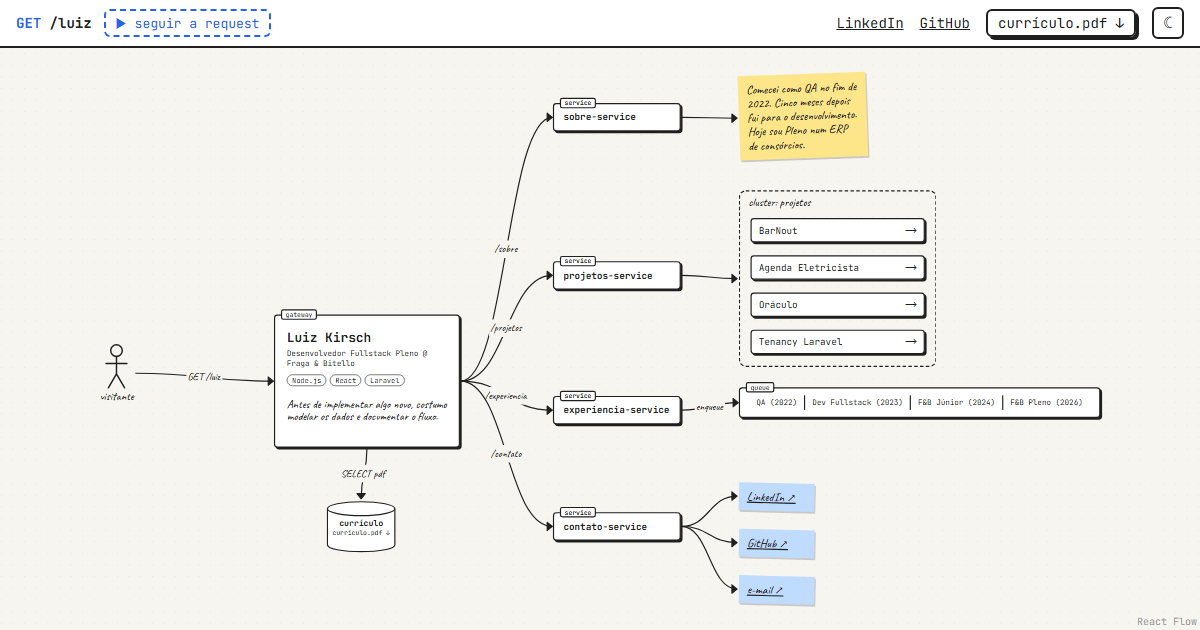
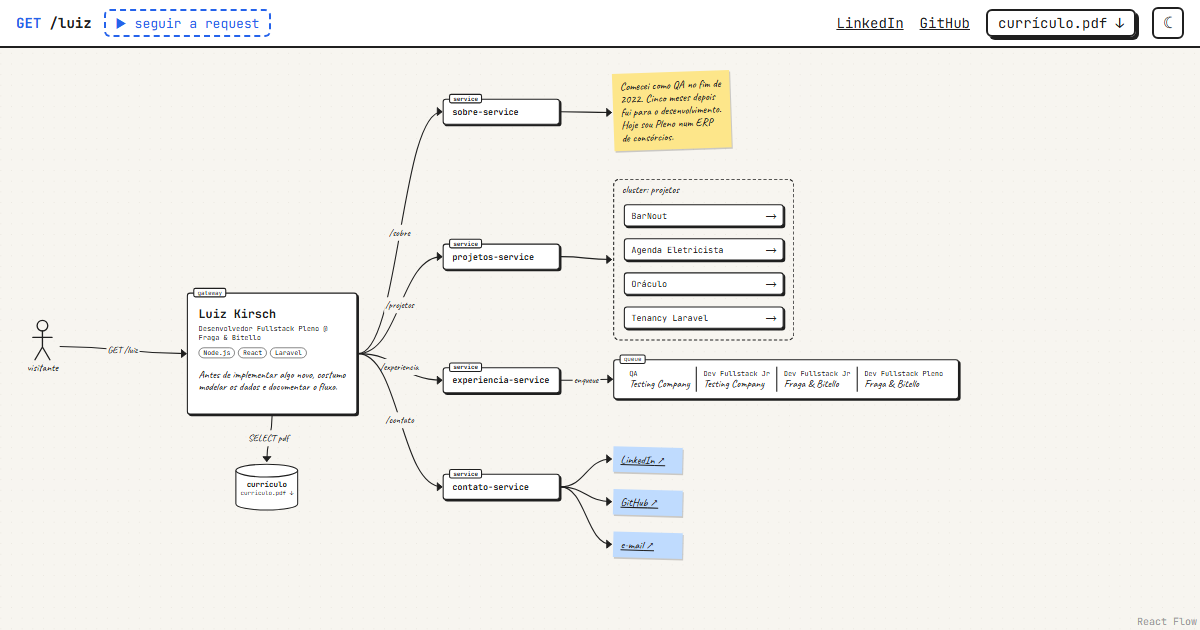
Ajustes: cargos da fila, tags da experiência e diagrama do Tenancy
- Fila: QA e Dev Fullstack Jr na Testing Company; Dev Fullstack Jr e
  Pleno na Fraga & Bitello. Cada slot mostra a empresa.
- Painel de experiência: o espaçamento entre cargos pegava também as
  tags de stack aninhadas e desalinhava a primeira.
- Tenancy Laravel: diagrama refeito a partir do README (domínio central,
  painel admin e banco central x domínio do tenant e banco do tenant).
- Mini diagramas escolhem o lado da seta pela grade: camadas diferentes
  sempre ligam por cima/baixo.
- "Ver tudo" reserva o canto do minimapa e o botão.

Changed region(s): [[0.0308, 0.3016, 0.925, 0.9651], [0.37, 0.0905, 0.74, 0.2714], [0.3083, 0.3619, 0.3392, 0.3921]]

diff --git a/src/content/content.ts b/src/content/content.ts
@@ -103,7 +103,7 @@ export const education: Education[] = [
 export const experiences: Experience[] = [
   {
     id: 'qa',
-    label: 'QA (2022)',
+    label: 'QA',
     title: 'Quality Assurance',
     org: 'Testing Company',
     place: 'Novo Hamburgo, RS',
@@ -118,8 +118,8 @@ export const experiences: Experience[] = [
   },
   {
     id: 'dev',
-    label: 'Dev Fullstack (2023)',
-    title: 'Desenvolvedor Fullstack',
+    label: 'Dev Fullstack Jr',
+    title: 'Desenvolvedor Fullstack Júnior',
     org: 'Testing Company',
     place: 'Novo Hamburgo, RS · híbrido',
     period: 'abr/2023 – nov/2024',
@@ -133,8 +133,8 @@ export const experiences: Experience[] = [
   },
   {
     id: 'fb-junior',
-    label: 'F&B Júnior (2024)',
-    title: 'Desenvolvedor de Software Júnior',
+    label: 'Dev Fullstack Jr',
+    title: 'Desenvolvedor Fullstack Júnior',
     org: 'Fraga & Bitello',
     place: 'São Leopoldo, RS · híbrido',
     period: 'nov/2024 – ago/2026',
@@ -149,8 +149,8 @@ export const experiences: Experience[] = [
   },
   {
     id: 'fb-pleno',
-    label: 'F&B Pleno (2026)',
-    title: 'Desenvolvedor de Software Pleno',
+    label: 'Dev Fullstack Pleno',
+    title: 'Desenvolvedor Fullstack Pleno',
     org: 'Fraga & Bitello',
     place: 'São Leopoldo, RS · híbrido',
     period: 'set/2026 – hoje',
@@ -338,21 +338,32 @@ export const projects: Project[] = [
     title: 'Tenancy Laravel',
     summary:
       'Aplicação multi-tenant com um banco de dados isolado por tenant, identificado pelo subdomínio e criado automaticamente quando o tenant é cadastrado.',
+    // Estrutura do README do repositório: o domínio central serve o painel admin e
+    // o banco central (tenants e domains); cadastrar um tenant dispara a criação do
+    // banco dele e as migrations de tenant; os domínios de tenant usam só o próprio banco.
     diagrams: [
       {
-        caption: 'um banco por tenant',
+        caption: 'domínio central x domínio do tenant',
         nodes: [
-          { id: 'a', label: 'a.dominio', col: 0, row: 0 },
-          { id: 'b', label: 'b.dominio', col: 1, row: 0 },
-          { id: 'app', label: 'Laravel + stancl/tenancy', col: 0, row: 1 },
-          { id: 'dba', label: 'banco do tenant A', col: 0, row: 2, kind: 'database' },
-          { id: 'dbb', label: 'banco do tenant B', col: 1, row: 2, kind: 'database' },
+          { id: 'central', label: 'domínio central', col: 0, row: 0 },
+          { id: 'tdom', label: 'domínio do tenant', col: 2, row: 0 },
+          { id: 'admin', label: 'painel central (admin)', col: 0, row: 1 },
+          { id: 'troutes', label: 'rotas do tenant', col: 2, row: 1 },
+          {
+            id: 'cdb',
+            label: 'banco central: tenants e domains',
+            col: 0,
+            row: 2,
+            kind: 'database',
+          },
+          { id: 'tdb', label: 'banco do tenant', col: 2, row: 2, kind: 'database' },
         ],
         edges: [
-          { from: 'a', to: 'app' },
-          { from: 'b', to: 'app' },
-          { from: 'app', to: 'dba' },
-          { from: 'app', to: 'dbb' },
+          { from: 'central', to: 'admin' },
+          { from: 'admin', to: 'cdb', label: 'cadastra tenant' },
+          { from: 'cdb', to: 'tdb', label: 'cria banco + migrations' },
+          { from: 'tdom', to: 'troutes', label: 'identifica o tenant' },
+          { from: 'troutes', to: 'tdb' },
         ],
       },
     ],
@@ -360,8 +371,8 @@ export const projects: Project[] = [
     problem: [],
     decisions: [
       'Um banco de dados por tenant, em vez de um banco compartilhado.',
-      'O tenant é identificado pelo subdomínio da requisição.',
-      'O banco do tenant é provisionado automaticamente na criação.',
+      'O tenant é identificado pelo domínio da requisição. Os domínios centrais servem o painel administrativo; qualquer outro é tratado como tenant.',
+      'Cadastrar um tenant cria automaticamente o banco dele e roda as migrations de tenant, que ficam separadas das migrations do banco central.',
       // TODO: por que banco isolado e não banco compartilhado?
     ],
     role: ['Projeto pessoal.'],

diff --git a/src/panels/MiniDiagram.tsx b/src/panels/MiniDiagram.tsx
@@ -1,13 +1,12 @@
 import { MarkerType, ReactFlow, type Edge, type Node, type NodeProps } from '@xyflow/react'
 import type { ProjectDiagram } from '../content/content'
-import { sides, type XY } from '../diagram/layout'
+import type { XY } from '../diagram/layout'
 import { Handles } from '../canvas/nodes/Handles'
 import s from './panels.module.css'
 
 /*
  * Diagrama somente leitura dentro do painel. Usa o mesmo React Flow e os mesmos
- * Handles do canvas, então as setas escolhem o lado do mesmo jeito.
- * As posições vêm de uma grade (col/row) definida no content.ts.
+ * Handles do canvas. As posições vêm de uma grade (col/row) definida no content.ts.
  */
 
 const COL = 220
@@ -15,6 +14,17 @@ const ROW = 80
 
 type MiniData = ProjectDiagram['nodes'][number]
 type MiniNode = Node<MiniData>
+
+/**
+ * Os diagramas dos painéis são em camadas: o lado da seta vem da grade, não dos
+ * pixels. Linha diferente → seta vertical (sai por baixo, entra por cima);
+ * mesma linha → horizontal. Comparar pixels fazia setas entre camadas saírem
+ * pela lateral quando a distância em x era maior.
+ */
+function gridSides(a: MiniData, b: MiniData): [string, string] {
+  if (a.row !== b.row) return a.row < b.row ? ['b', 't'] : ['t', 'b']
+  return a.col < b.col ? ['r', 'l'] : ['l', 'r']
+}
 
 function MiniBox({ data }: NodeProps<MiniNode>) {
   return (
@@ -31,6 +41,7 @@ export function MiniDiagram({ diagram }: { diagram: ProjectDiagram }) {
   const pos = new Map<string, XY>(
     diagram.nodes.map((n) => [n.id, { x: n.col * COL, y: n.row * ROW }]),
   )
+  const byId = new Map(diagram.nodes.map((n) => [n.id, n]))
   const label = new Map(diagram.nodes.map((n) => [n.id, n.label]))
 
   const nodes: MiniNode[] = diagram.nodes.map((n) => ({
@@ -41,7 +52,7 @@ export function MiniDiagram({ diagram }: { diagram: ProjectDiagram }) {
   }))
 
   const edges: Edge[] = diagram.edges.map((e) => {
-    const [from, to] = sides(pos.get(e.from)!, pos.get(e.to)!)
+    const [from, to] = gridSides(byId.get(e.from)!, byId.get(e.to)!)
     return {
       id: `${e.from}->${e.to}`,
       source: e.from,

diff --git a/src/canvas/Board.tsx b/src/canvas/Board.tsx
@@ -141,11 +141,17 @@ function TourCamera({ nodeId }: { nodeId: string }) {
 function FitAll() {
   const { fitView } = useReactFlow()
   return (
-    <button className={s.button} onClick={() => fitView({ duration: reducedMotion() ? 0 : 400 })}>
+    <button
+      className={s.button}
+      onClick={() => fitView({ ...FIT, duration: reducedMotion() ? 0 : 400 })}
+    >
       ver tudo
     </button>
   )
 }
+
+// "Ver tudo" deixa livres o canto do minimapa (direita) e o botão (embaixo).
+const FIT = { padding: { top: '24px', left: '24px', right: '240px', bottom: '72px' } } as const
 
 const HINT_KEY = 'hint-seen'
 
@@ -183,6 +189,7 @@ export function Board({ tourNodeId }: { tourNodeId?: string }) {
         defaultEdges={rfEdges}
         nodeTypes={nodeTypes}
         fitView
+        fitViewOptions={FIT}
         minZoom={0.3}
         maxZoom={2}
         // O layout.ts é a fonte da verdade: nós não se arrastam nem se conectam.

diff --git a/src/canvas/nodes/QueueNode.tsx b/src/canvas/nodes/QueueNode.tsx
@@ -4,13 +4,17 @@ import type { BoardNodeProps } from './types'
 import s from './nodes.module.css'
 
 // Fila FIFO desenhada como slots: a carreira entra pela esquerda, em ordem.
+// Cada slot mostra o cargo e, à mão, a empresa (há cargos repetidos entre empresas).
 export function QueueNode({ selected }: BoardNodeProps) {
   return (
     <div className={`${s.box} ${s.queue} ${selected ? s.selected : ''}`}>
       <span className={s.tag}>queue</span>
       <ol>
         {experiences.map((e) => (
-          <li key={e.id}>{e.label}</li>
+          <li key={e.id}>
+            {e.label}
+            <span className={s.hand}>{e.org}</span>
+          </li>
         ))}
       </ol>
       <Handles />

diff --git a/src/diagram/layout.ts b/src/diagram/layout.ts
@@ -54,7 +54,7 @@ export function position(id: string): XY {
 
 /**
  * Lado de saída/entrada de uma seta: horizontal se a distância em x domina,
- * vertical caso contrário. Usado pelo canvas e pelos mini diagramas dos painéis.
+ * vertical caso contrário. Usado pelo canvas (os mini diagramas usam a grade).
  */
 // ponytail: compara cantos superiores, não centros; basta para layouts espaçados.
 export function sides(a: XY, b: XY): [string, string] {

diff --git a/src/diagram/model.ts b/src/diagram/model.ts
@@ -62,7 +62,7 @@ export const nodes: ModelNode[] = [
   {
     id: 'queue',
     kind: 'queue',
-    label: experiences.map((e) => e.label).join(' → '),
+    label: experiences.map((e) => `${e.label} (${e.org})`).join(' → '),
     route: '/experiencia',
   },
   ...contactLinks.map((c): ModelNode => ({ ...c, kind: 'sticky', tone: 'blue' })),

diff --git a/src/canvas/nodes/nodes.module.css b/src/canvas/nodes/nodes.module.css
@@ -111,6 +111,8 @@
 
 /* Slots da fila separados por traços verticais, como num desenho de queue. */
 .queue li {
+  display: flex;
+  flex-direction: column;
   padding: 4px 12px;
   font-size: 13px;
   white-space: nowrap;

diff --git a/src/panels/panels.module.css b/src/panels/panels.module.css
@@ -129,7 +129,8 @@
   padding-left: 20px;
 }
 
-.timeline li + li {
+/* Só entre cargos: sem o ">" a regra pegava também as listas de dentro (as tags). */
+.timeline > li + li {
   margin-top: 16px;
 }
 
